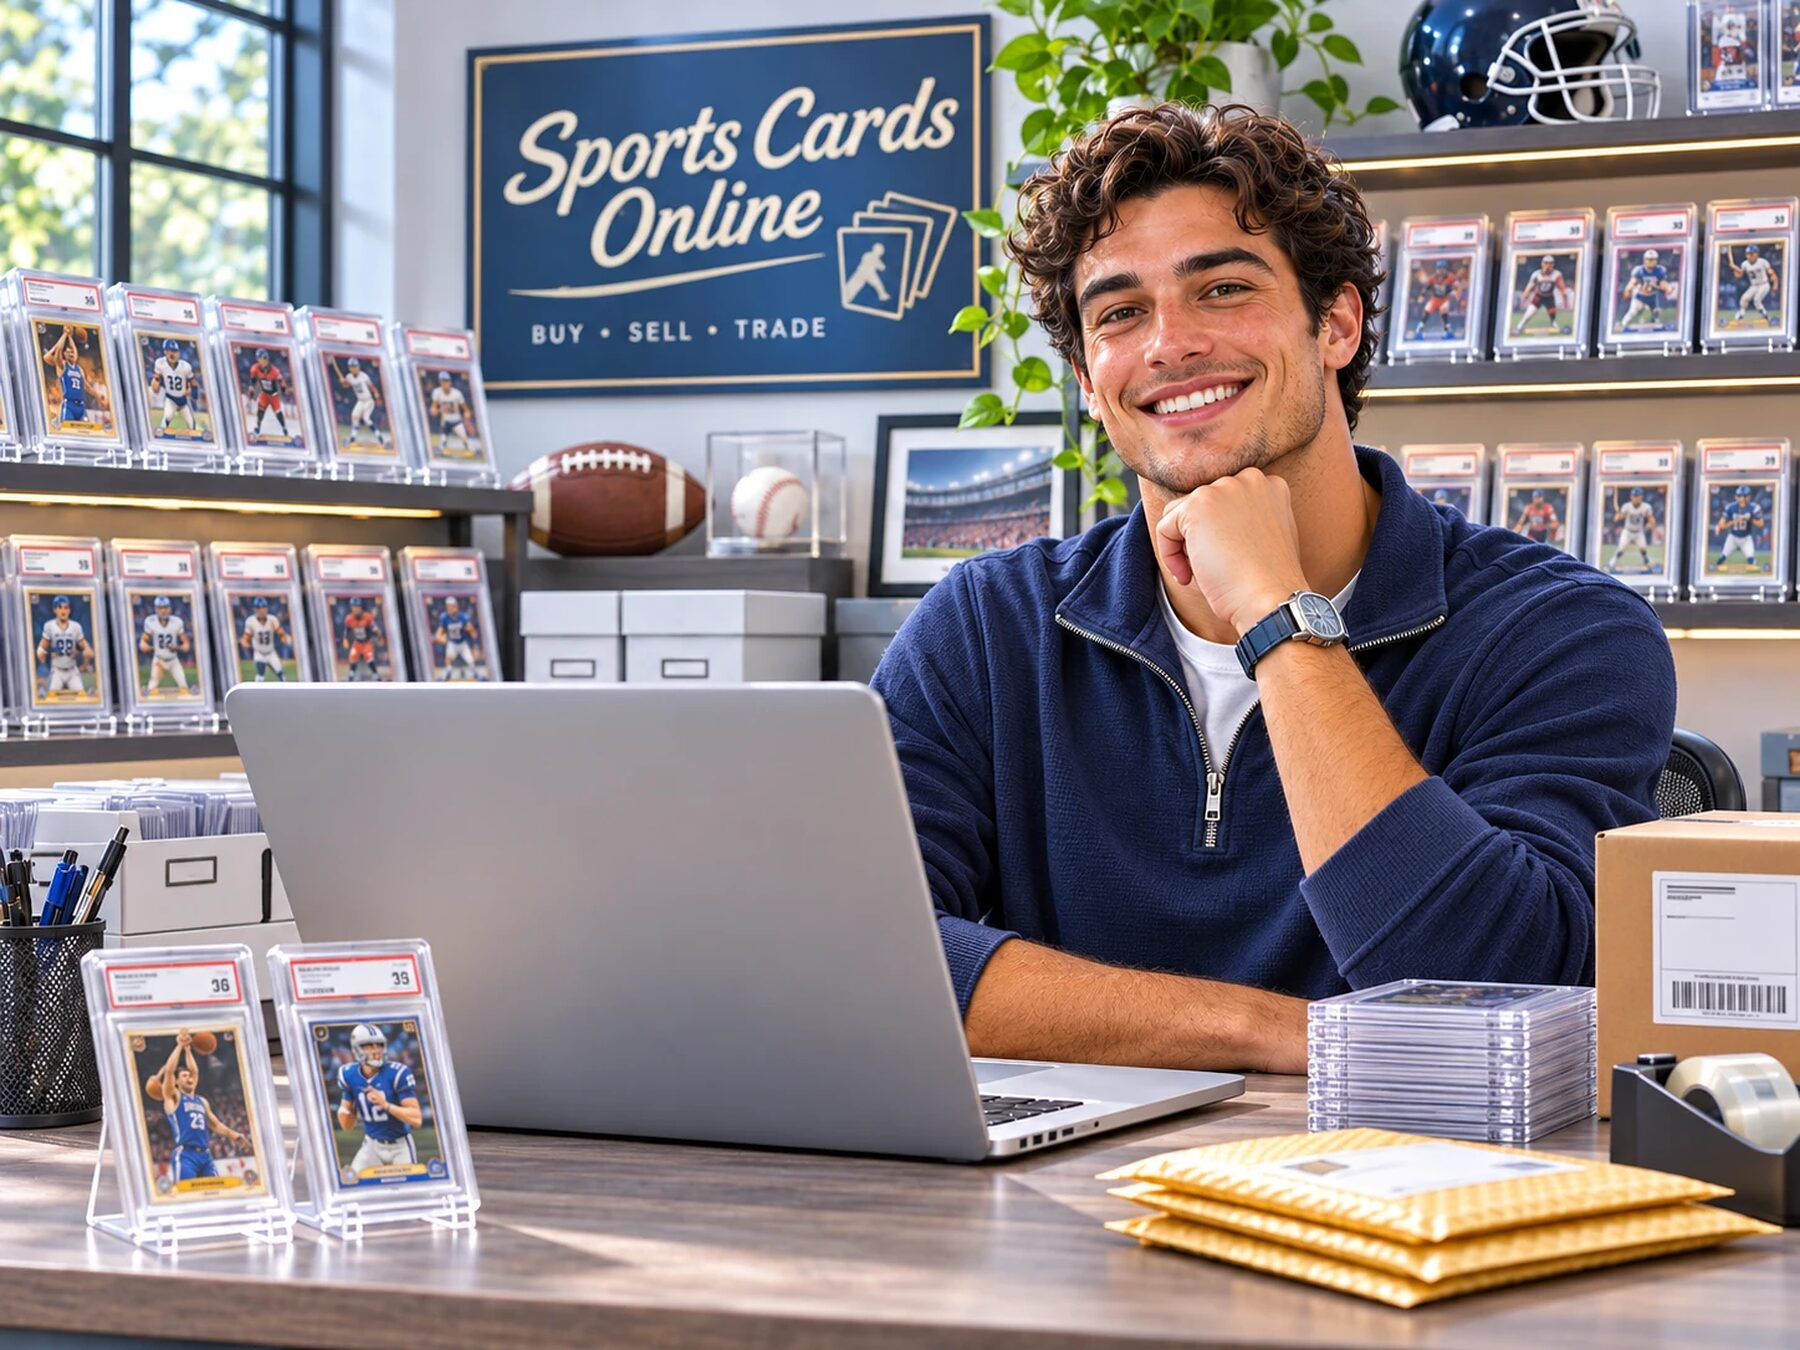
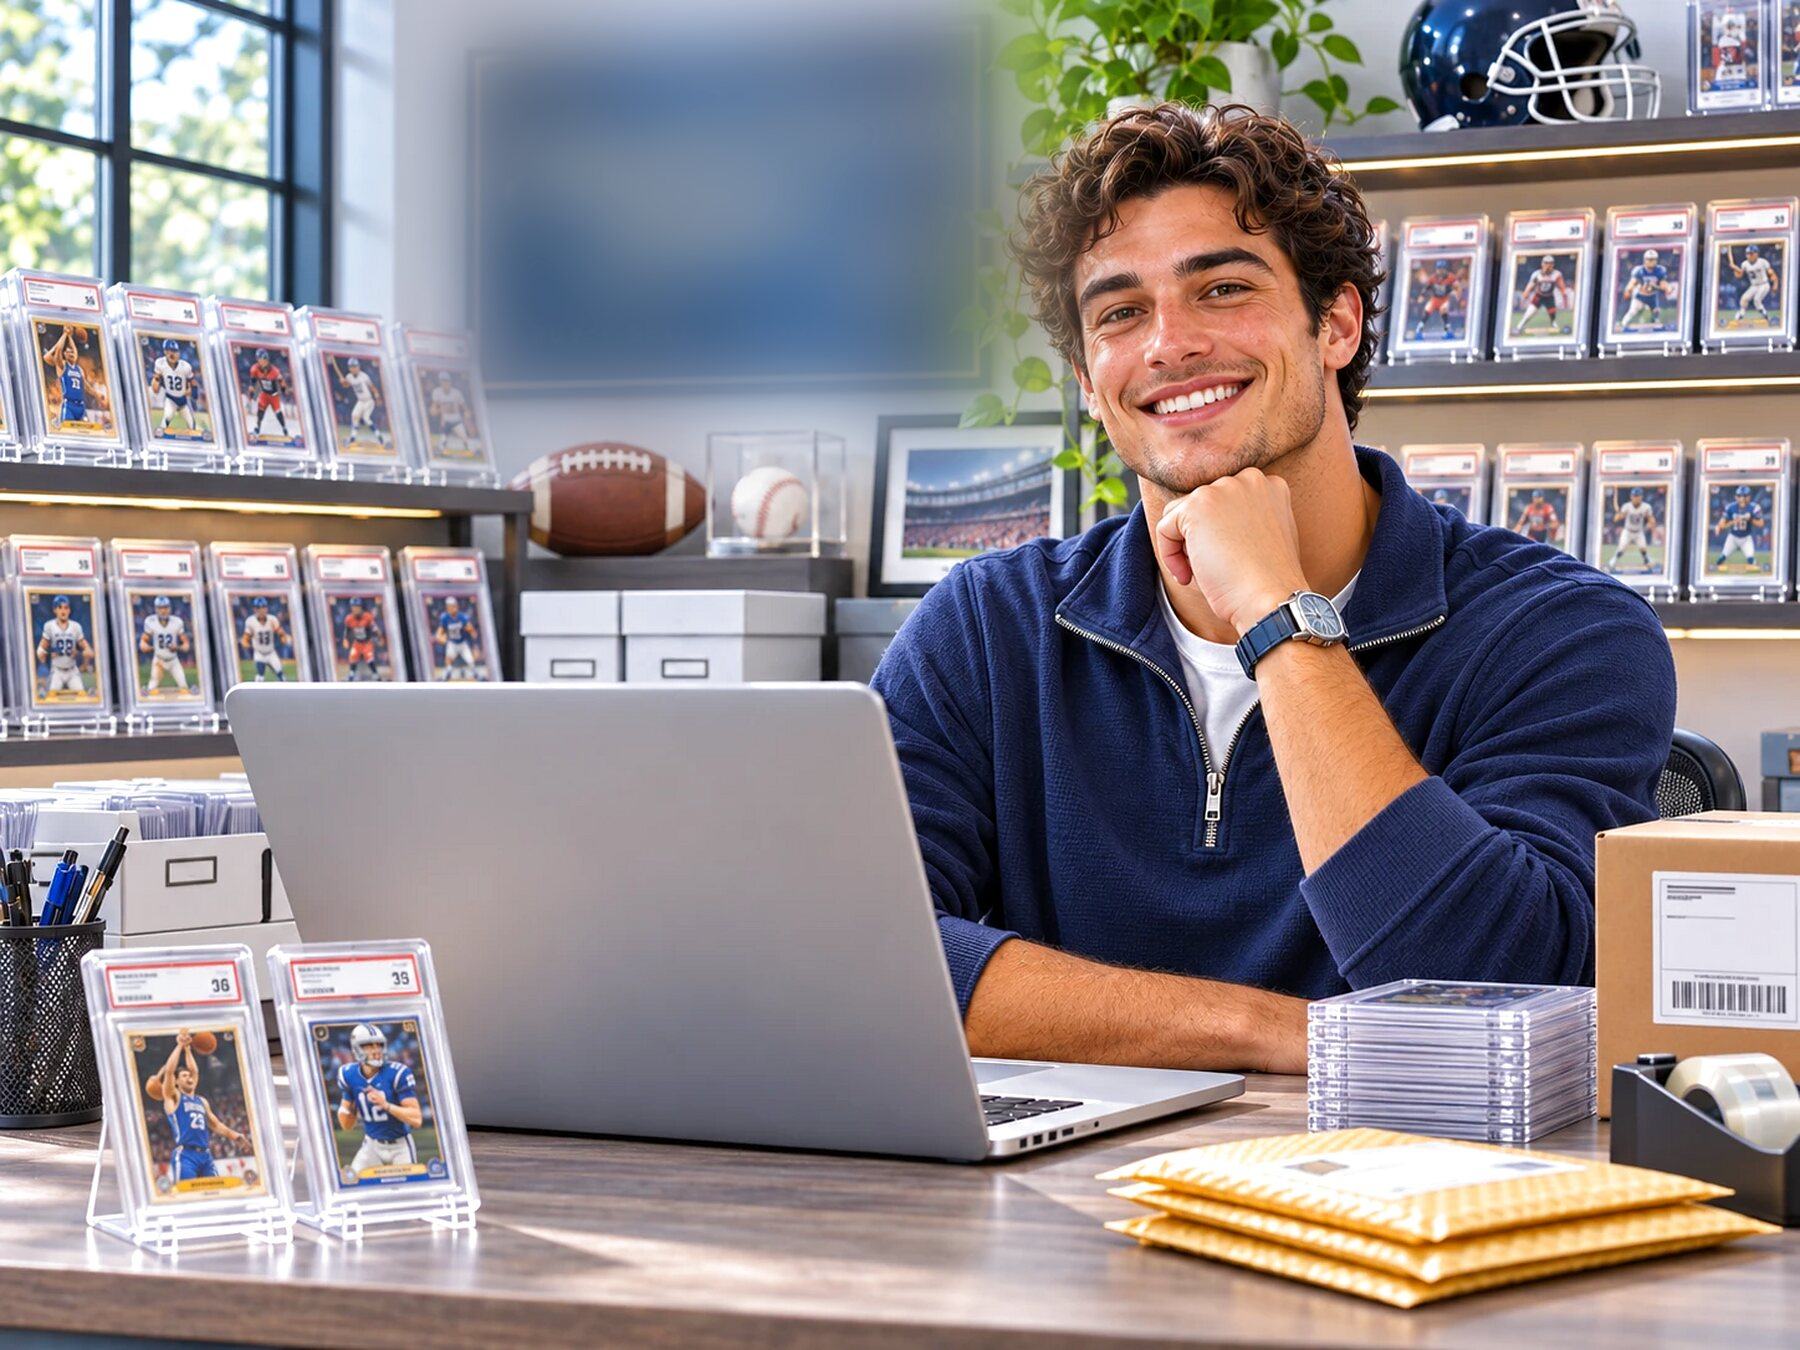
Lighten the hero: soften the sign in the photo instead of burying it
The scrim was at .96 out to 46% because that was the only way to hide the
"Sports Cards Online" board in the shot. It worked, but it crushed the whole
left half - the shelves, the plant and the stadium print all went to mud and
the hero read as a dark panel with a man on it.

Fixed at the source instead. The sign is blurred into the photo itself with
a feathered mask, which matches the shallow depth of field already in that
background, so it reads as an out-of-focus board rather than a removed one.
The asset also gets a small brightness and saturation lift.

With the sign gone from the pixels, the scrim only has to serve the copy:

  left stop   .97 -> .90
  34%/46%     .96 -> .80
  62-70%      .70 -> .42
  right       .80 -> .52
  mobile      .92/.86/.72 -> .86/.72/.58

Measured the real background behind the hero copy by hiding the text and
sampling the pixels underneath: white on the mean background is 15.1:1 on
desktop and 14.1:1 on mobile, and 8.2:1 even against the brightest pixel in
that region - so nothing was traded away for the extra light.

Claude-Session: https://claude.ai/code/session_011u1kKiGe19jiFif2ZNeQGR

Changed region(s): [[0.1867, 0.0, 0.6222, 0.3733]]

diff --git a/assets/home.css b/assets/home.css
@@ -177,14 +177,14 @@ h1, h2, h3, h4 { margin: 0; font-weight: 800; letter-spacing: -.022em; line-heig
     width: 100%; height: 100%; object-fit: cover;
     object-position: 50% 30%; display: block;
 }
-/* Scrim. The left stop is held near-opaque out to 46% on purpose: the shop's
-   own signage sits at roughly 26-55% across this photo, and the crop cannot
-   exclude it without losing the subject's face. Darkness is what hides it. */
+/* Scrim. Only as dark as the copy needs. The shop sign in the photo is
+   softened in the asset itself rather than buried under opacity, so the
+   shelves, the plant and the subject all still read through it. */
 .hm-hero-bg::after {
     content: ''; position: absolute; inset: 0; pointer-events: none;
     background:
-        linear-gradient(90deg, rgba(7,14,28,.97) 0%, rgba(7,14,28,.96) 46%, rgba(7,14,28,.7) 70%, rgba(7,14,28,.8) 100%),
-        linear-gradient(180deg, rgba(7,14,28,.55) 0%, rgba(7,14,28,0) 26%, rgba(7,14,28,0) 56%, rgba(7,14,28,.66) 100%);
+        linear-gradient(90deg, rgba(6,13,26,.9) 0%, rgba(6,13,26,.8) 34%, rgba(6,13,26,.42) 62%, rgba(6,13,26,.52) 100%),
+        linear-gradient(180deg, rgba(6,13,26,.4) 0%, rgba(6,13,26,0) 24%, rgba(6,13,26,0) 62%, rgba(6,13,26,.5) 100%);
 }
 .hm-hero > .hm-wrap { position: relative; z-index: 1; }
 
@@ -848,13 +848,12 @@ input[type=range].hm-range::-moz-range-thumb {
     .hm-hero .hm-call { position: absolute; left: 0; right: 0; width: auto; bottom: 0; }
 }
 
-/* Narrow viewports crop a tall slice out of the middle of the hero photo,
-   which brings the shop's own signage into frame. Push the crop down to the
-   table so the background stays scenery and carries no other brand's name. */
+/* Narrow viewports crop a tall slice out of the middle of the photo, so the
+   crop moves on X here and the scrim runs top-to-bottom instead of across. */
 @media (max-width: 760px) {
     .hm-hero-bg img { object-position: 62% 34%; }
     .hm-hero-bg::after {
         background:
-            linear-gradient(180deg, rgba(7,14,28,.92) 0%, rgba(7,14,28,.86) 48%, rgba(7,14,28,.72) 100%);
+            linear-gradient(180deg, rgba(6,13,26,.86) 0%, rgba(6,13,26,.72) 48%, rgba(6,13,26,.58) 100%);
     }
 }
